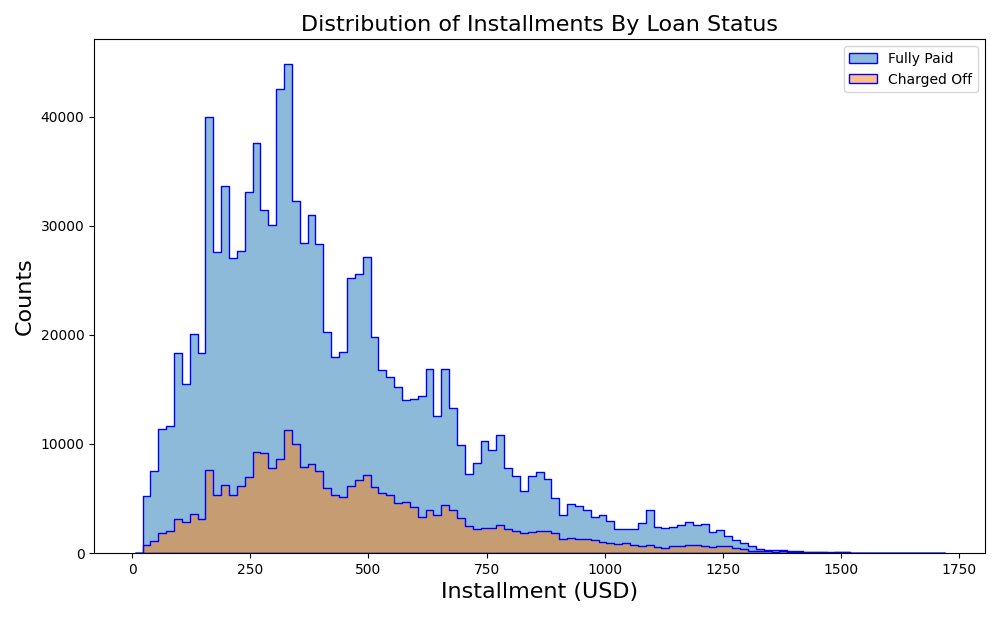
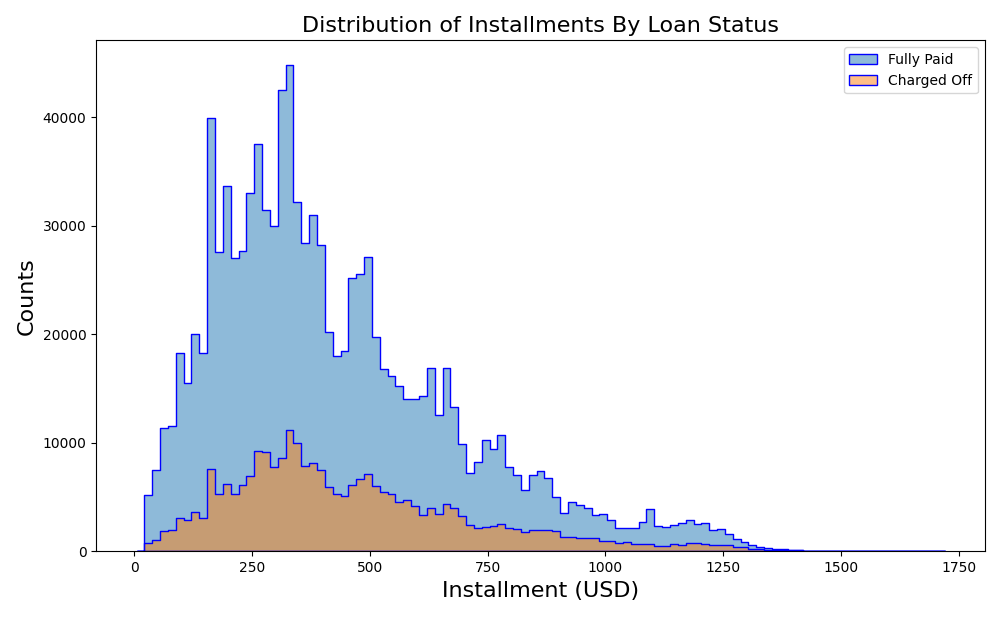
prototype run

diff --git a/scripts/02 - exploratory_data_analysis.py b/scripts/02 - exploratory_data_analysis.py
@@ -143,7 +143,7 @@ with open(config_file_path, 'r') as f:
 print("Defining Variables and Creating Directories")
 
 # Extract various configuration settings from the config file
-database_file = config['base']['database_file']
+sqlite_file = config['data']['output_sqlite']
 columns_of_interest = config['base']['columns_of_interest']
 tag = config['base']['tag']
 git_repo = config['base']['git_repo']
@@ -151,6 +151,7 @@ fontsize = config['plotting']['fontsize']
 figsize_x = config['plotting']['figure_xsize']
 figsize_y = config['plotting']['figure_ysize']
 
+sqlite_file = f"outputs/{tag}/data/{sqlite_file}"
 # Create the output directories
 out_dir_figures = f"outputs/{tag}/figures"
 out_dir_stats = f"outputs/{tag}/stats"
@@ -166,10 +167,10 @@ logger.log("----------------------Logger Initialized for exploratory_data_analys
 logger.log("Loading Data")
 
 # Defining the connection to the database
-conn = sqlite3.connect(database_file)
+conn = sqlite3.connect(sqlite_file)
 
 # Defining the query to fetch the descriptions
-description_fetch_query = f"""SELECT *  FROM descriptions """
+description_fetch_query = f"""SELECT * FROM descriptions"""
 
 # Loading descriptions into dataframe
 descriptions = pd.read_sql_query(description_fetch_query, conn, index_col = 'name')
@@ -180,8 +181,7 @@ column_types = {idx:transform_type(row['data_type']) for idx, row in description
 # Defining the query to fetch the data
 data_fetch_query = f"""SELECT {', '.join(columns_of_interest)} 
                        FROM loans_data
-                       ORDER BY RANDOM()
-                       LIMIT 10000"""
+                       ORDER BY RANDOM()"""
 
 # Loading the data into a dataframe
 loans_data = pd.read_sql_query(data_fetch_query, conn, index_col='id', dtype=column_types)
@@ -657,7 +657,7 @@ for table in tables:
     df = pd.read_csv(f'outputs/{tag}/stats/{table}', index_col=0)
     markdown_string += f"## {table[:-4].replace('_',' ')}\n{df.to_markdown()}\n"
 
-images = sorted([f for f in os.listdir(f'/outputs/{tag}/figures/') if f.endswith('.png')])
+images = sorted([f for f in os.listdir(f'outputs/{tag}/figures/') if f.endswith('.png')])
 
 for image in images:
     subtitle = f"## {image.split('-',1)[-1][:-4].replace('_',' ')}"

diff --git a/outputs/prototype/reports/01-Exploratory_Data_Analysis_Report.md b/outputs/prototype/reports/01-Exploratory_Data_Analysis_Report.md
@@ -1,7 +1,7 @@
 # Automated Exploratory Data Analysis Report
 Run Tag: prototype
 Author: Andre Guimaraes
-2023-12-13 15:15:33
+2023-12-13 15:53:58
 ## numerical statistics
 |                      |       count | mean                          | min                 | 25%                 | 50%                 | 75%                 | max                 |             std | description                                                                                                                     |
 |:---------------------|------------:|:------------------------------|:--------------------|:--------------------|:--------------------|:--------------------|:--------------------|----------------:|:--------------------------------------------------------------------------------------------------------------------------------|
@@ -9,7 +9,7 @@ Author: Andre Guimaraes
 | term_months          | 1.34531e+06 | 41.790195568307674            | 36.0                | 36.0                | 36.0                | 36.0                | 60.0                |    10.2683      | The length of the loan term in months.                                                                                          |
 | int_rate             | 1.34531e+06 | 13.239618925658709            | 5.309999942779541   | 9.75                | 12.739999771118164  | 15.989999771118164  | 30.989999771118164  |     4.76872     | Interest rate of the loan.                                                                                                      |
 | installment          | 1.34531e+06 | 438.0755328540502             | 4.929999828338623   | 248.47999572753906  | 375.42999267578125  | 580.72998046875     | 1719.8299560546875  |   261.513       | The monthly payment owed by the borrower if the loan originates.                                                                |
-| annual_inc           | 1.34531e+06 | 76247.63641372623             | 0.0                 | 45780.0             | 65000.0             | 90000.0             | 10999200.0          | 69925.1         | The self-reported annual income provided by the borrower during registration.                                                   |
+| annual_inc           | 1.34531e+06 | 76247.63641372617             | 0.0                 | 45780.0             | 65000.0             | 90000.0             | 10999200.0          | 69925.1         | The self-reported annual income provided by the borrower during registration.                                                   |
 | issue_d_unix         | 1.34531e+06 | 1433612900.8350492            | 1180656000.0        | 1404172800.0        | 1438387200.0        | 1467331200.0        | 1543622400.0        |     5.10782e+07 | The date when the loan was funded, converted to Unix time.                                                                      |
 | dti                  | 1.34531e+06 | 18.277862284080516            | -1.0                | 11.789999961853027  | 17.610000610351562  | 24.049999237060547  | 999.0               |    11.1626      | Debt-to-income ratio calculated using the borrower’s total monthly debt payments divided by their self-reported monthly income. |
 | open_acc             | 1.34531e+06 | 11.593520452535103            | 0.0                 | 8.0                 | 11.0                | 14.0                | 90.0                |     5.47379     | The number of open credit lines in the borrower’s credit file.                                                                  |
@@ -20,8 +20,6 @@ Author: Andre Guimaraes
 | mort_acc             | 1.34531e+06 | 1.6120633905939894            | 0.0                 | 0.0                 | 1.0                 | 3.0                 | 51.0                |     1.98892     | Number of mortgage accounts.                                                                                                    |
 | pub_rec_bankruptcies | 1.34531e+06 | 0.13437423344805285           | 0.0                 | 0.0                 | 0.0                 | 0.0                 | 12.0                |     0.377843    | Number of public record bankruptcies.                                                                                           |
 | issue_d              | 1.34531e+06 | 2015-06-06 17:48:20.835049728 | 2007-06-01 00:00:00 | 2014-07-01 00:00:00 | 2015-08-01 00:00:00 | 2016-07-01 00:00:00 | 2018-12-01 00:00:00 |   nan           | Date the loan was issued                                                                                                        |
-| issue_month          | 1.34531e+06 | 6.508846288216099             | 1.0                 | 3.0                 | 7.0                 | 10.0                | 12.0                |     3.44988     | Month of the year the loan was issued                                                                                           |
-| issue_year           | 1.34531e+06 | 2014.9717648720368            | 2007.0              | 2014.0              | 2015.0              | 2016.0              | 2018.0              |     1.63969     | Year the loan was issued                                                                                                        |
 ## Loan Status Distribution
 ![Alt Text](https://raw.githubusercontent.com/Andrerg01/All_Lending_Club_ML_Analysis/main/outputs/prototype/figures/01-Loan_Status_Distribution.png)
 ## Correlation Matrix
